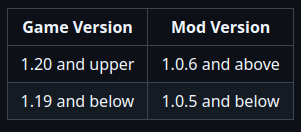
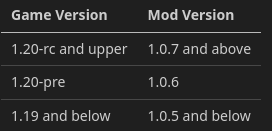
1.0.7

Changed region(s): [[0.0, 0.0611, 1.0, 0.9466]]

diff --git a/ImmersiveTPSCamera/CameraOverwrite.cs b/ImmersiveTPSCamera/CameraOverwrite.cs
@@ -161,7 +161,7 @@ class CameraOverwrite
 
         if (CameraFunctions.shouldImmerse)
         {
-            IClientWorldAccessor cworld = intersectionTester.blockSelectionTester as IClientWorldAccessor;
+            IClientWorldAccessor cworld = intersectionTester.bsTester as IClientWorldAccessor;
             EntityPlayer plr = cworld.Player.Entity;
 
             // Specific pixel xray treatment

diff --git a/README.md b/README.md
@@ -1,7 +1,8 @@
 # Version to choose
 | Game Version         | Mod Version          |
 |----------------------|----------------------|
-| 1.20 and upper       | 1.0.6 and above      |
+| 1.20-rc and upper    | 1.0.7 and above      |
+| 1.20-pre             | 1.0.6                |
 | 1.19 and below       | 1.0.5 and below      |
 
 # Immersive Third Person Camera
